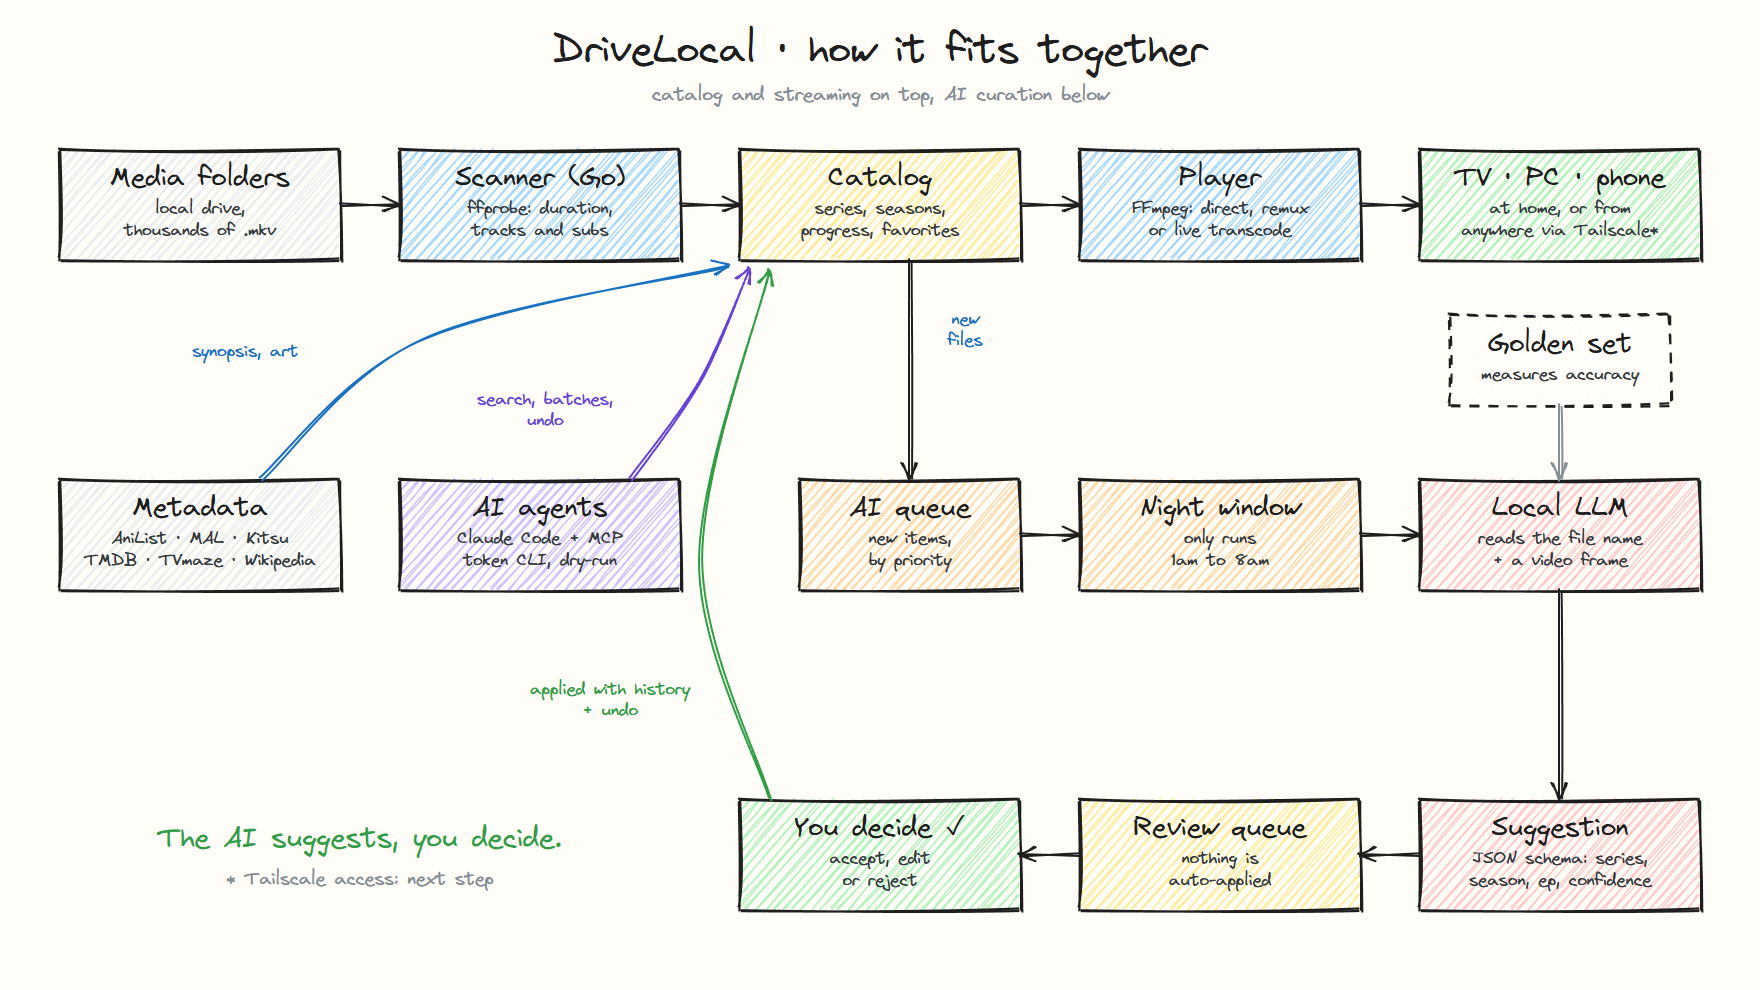
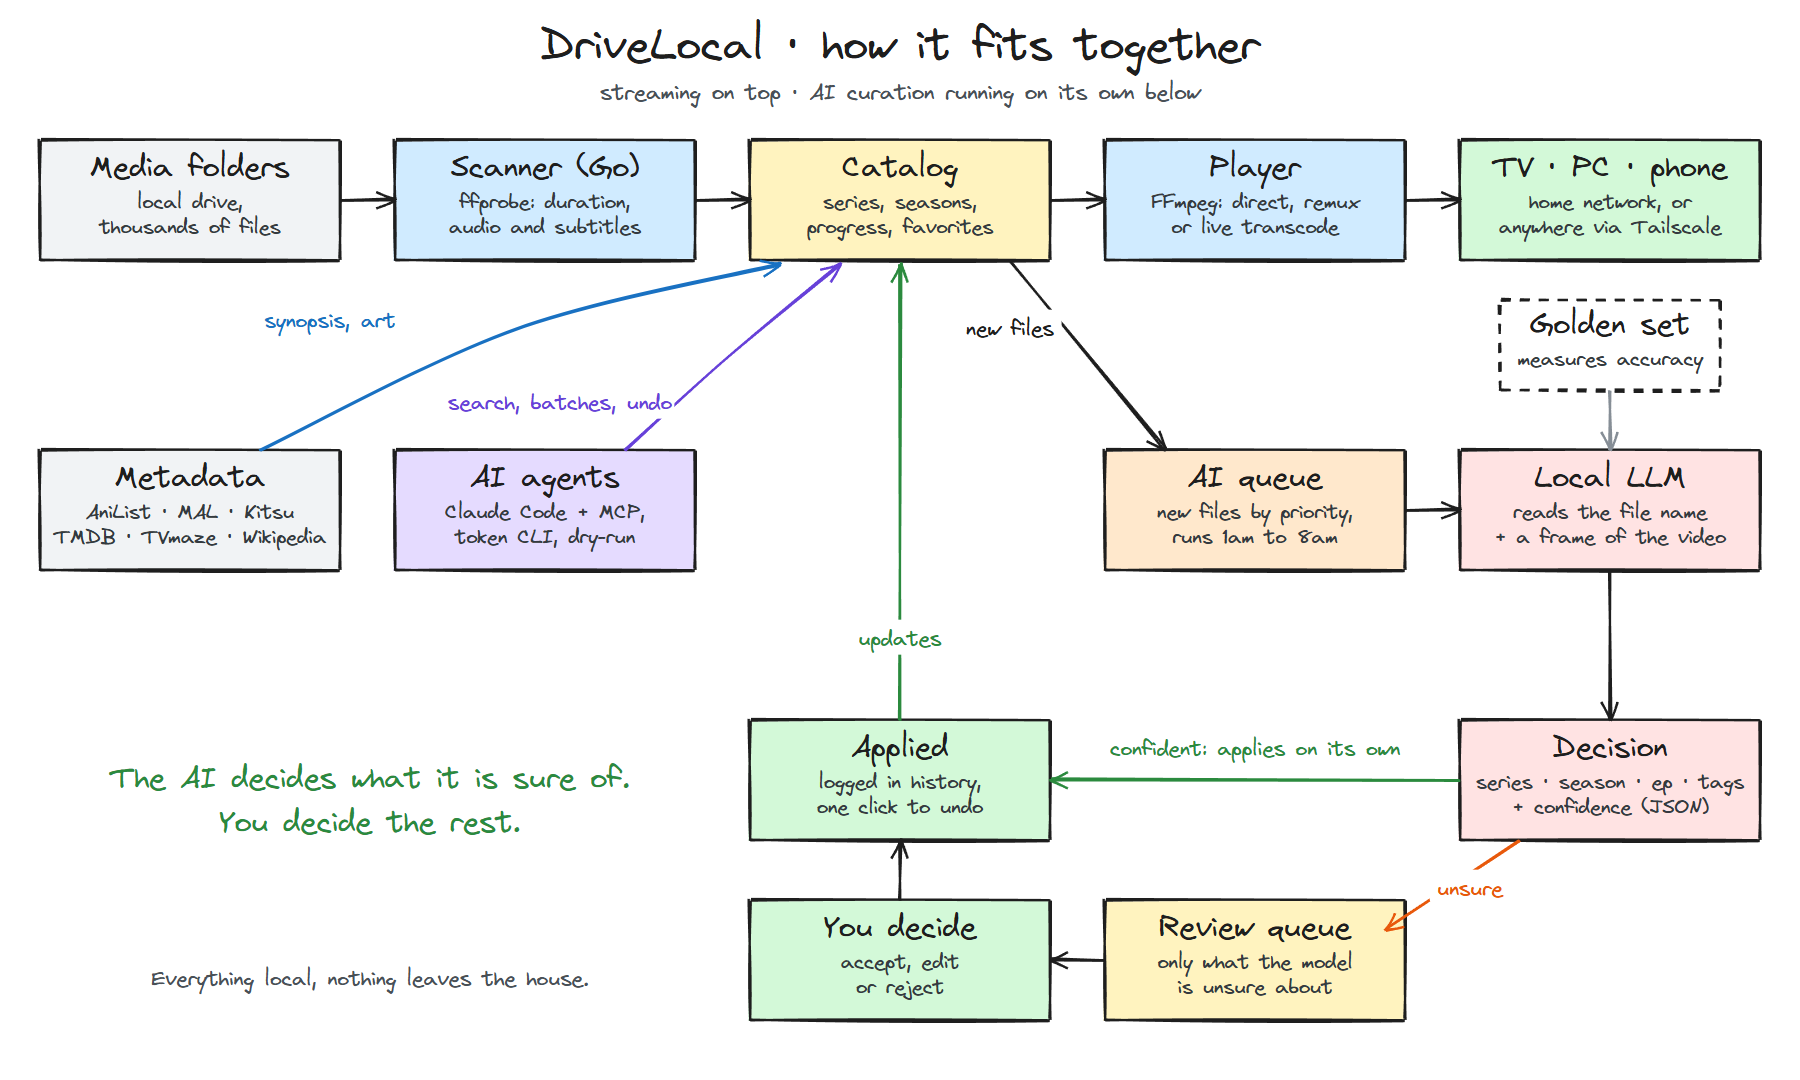
Replace architecture diagram with a single, more readable version

diff --git a/README.pt-BR.md b/README.pt-BR.md
@@ -49,7 +49,7 @@ Pasta cheia de `.mkv` não é biblioteca. O DriveLocal varre suas pastas e trans
 - **Detecção de duplicatas** de séries e criadores escritos de jeitos diferentes (token set ratio, Jaro-Winkler e contenção), com fusão que guarda os apelidos e pode ser desfeita
 - **Regras, operações em lote com dry-run, histórico e desfazer** para tudo que altera o catálogo
 
-![Como o DriveLocal se conecta](./docs/assets/architecture.pt-BR.png)
+![Como o DriveLocal se conecta](./docs/assets/architecture.png)
 
 ### Pensado para agentes
 
